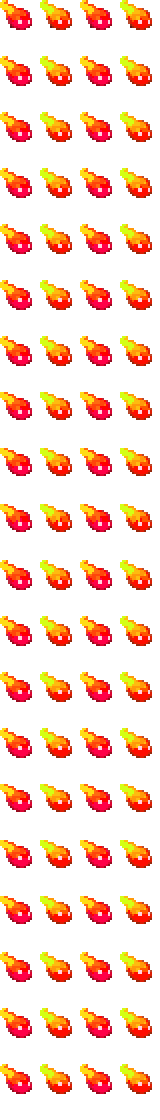
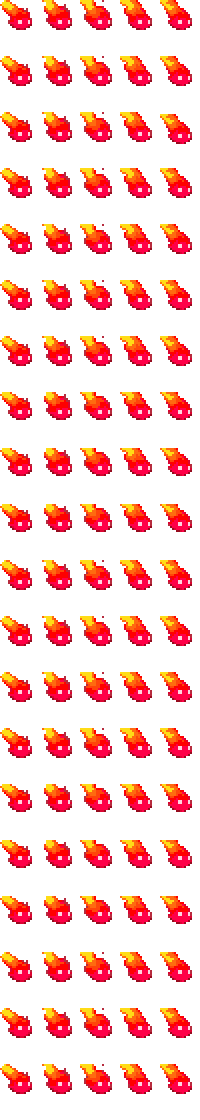
+ Fixed glow effect not working and added new animation

diff --git a/Common/Players/DrawLayers/HatExtensionLayer.cs b/Common/Players/DrawLayers/HatExtensionLayer.cs
@@ -45,7 +45,7 @@ public class HatExtensionLayer : PlayerDrawLayer
                 Texture2D extraPieceTexture = hatExtension.extensionTexture.Value;
 
                 //Get the frame of the extension based on the players body frame
-                Rectangle frame = extraPieceTexture.Frame(1, 20, 0, drawPlayer.bodyFrame.Y / drawPlayer.bodyFrame.Height);
+                Rectangle frame = extraPieceTexture.Frame((headItem is IAnimatedHead animated ? animated.AnimationLength : 1), 20, 0, drawPlayer.bodyFrame.Y / drawPlayer.bodyFrame.Height);
 
                 if (headItem is IAnimatedHead)
                     frame.X = drawPlayer.HeadAnimationPlayer().animationFrameNum * 40;

diff --git a/Content/Items/Vanity/DevVanities/FuriousCocktail.cs b/Content/Items/Vanity/DevVanities/FuriousCocktail.cs
@@ -10,10 +10,10 @@ public class FuriousCocktail : DevVanity, IHatExtension, IAnimatedHead
     public override string DevName => "Zarachard";
 
     public Asset<Texture2D> extensionTexture { get; set; }
-    public Vector2 ExtensionSpriteOffset(PlayerDrawSet drawInfo) => new(drawInfo.drawPlayer.direction == 1 ? -20 : 20, -22);
+    public Vector2 ExtensionSpriteOffset(PlayerDrawSet drawInfo) => new(drawInfo.drawPlayer.direction == 1 ? -16 : 16, -24);
 
-    public int AnimationLength => 4;
-    public int AnimationDelay => 10;
+    public int AnimationLength => 5;
+    public int AnimationDelay => 5;
 
     public Asset<Texture2D> headTexture { get; set; }
 

diff --git a/Content/Items/Vanity/DevVanities/DevVanity.cs b/Content/Items/Vanity/DevVanities/DevVanity.cs
@@ -78,7 +78,11 @@ public class DevVanityPlayer : ModPlayer
             }
 
             ModItem headItem = EquipLoader.GetEquipTexture(EquipType.Head, self.head).Item;
-            self.DevVanity().currentDevVanity = headItem;
+
+            if (headItem is DevVanity)
+                self.DevVanity().currentDevVanity = headItem;
+            else
+                self.DevVanity().currentDevVanity = null;
         }
     }
 
